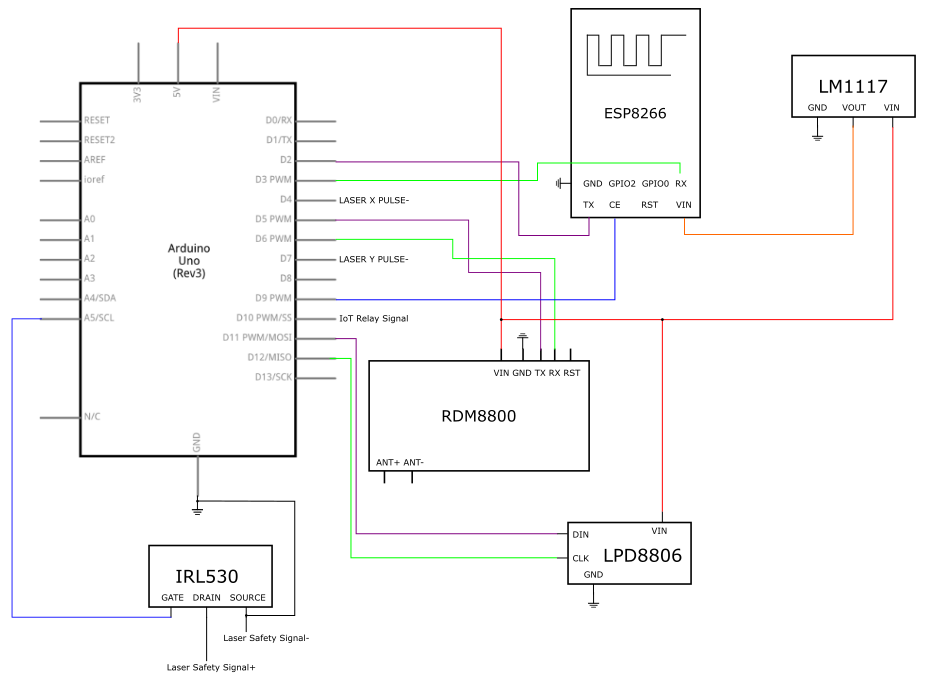
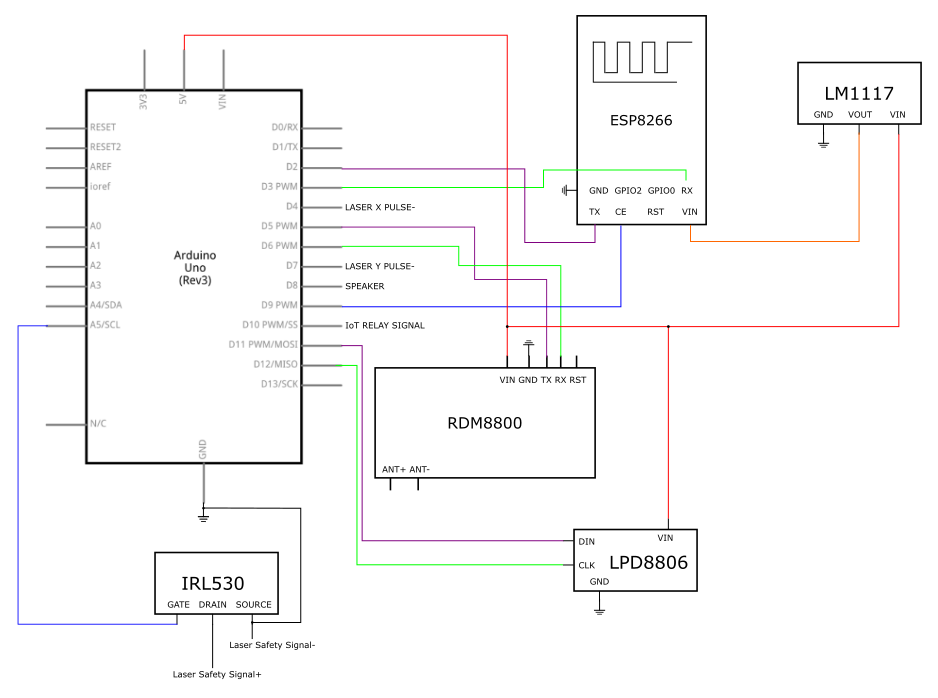
Added speaker pin

diff --git a/README.md b/README.md
@@ -1,7 +1,7 @@
 # ACM
 Access Control Management system
 
-This system is designed to authorize access to MakerLabs' laser cutter by an RFID tag. The system consists of an Arduino Uno, an RDM8800-T-A breakout board, and an ESP8266 breakout board. This module actively scans for RFID tags that follow the ISO14443A protocol. Details on ISO14443A, specifically MiFare, can be found in ACM/Documentation/ISO14443AB.pdf.
+This system is designed to authorize access to MakerLabs' laser cutter by an RFID tag. The system consists of an Arduino Uno, an RDM8800-T-A breakout board, and an ESP8266 breakout board. This module actively scans for RFID tags that follow the ISO14443A protocol. Details on ISO14443A, specifically MiFare, can be found in ACM/Documentation/ISO14443AB.pdf. This module also controls a relay which turns on support systems when a valid tag is detected.
 
 
 # Hardware Required
